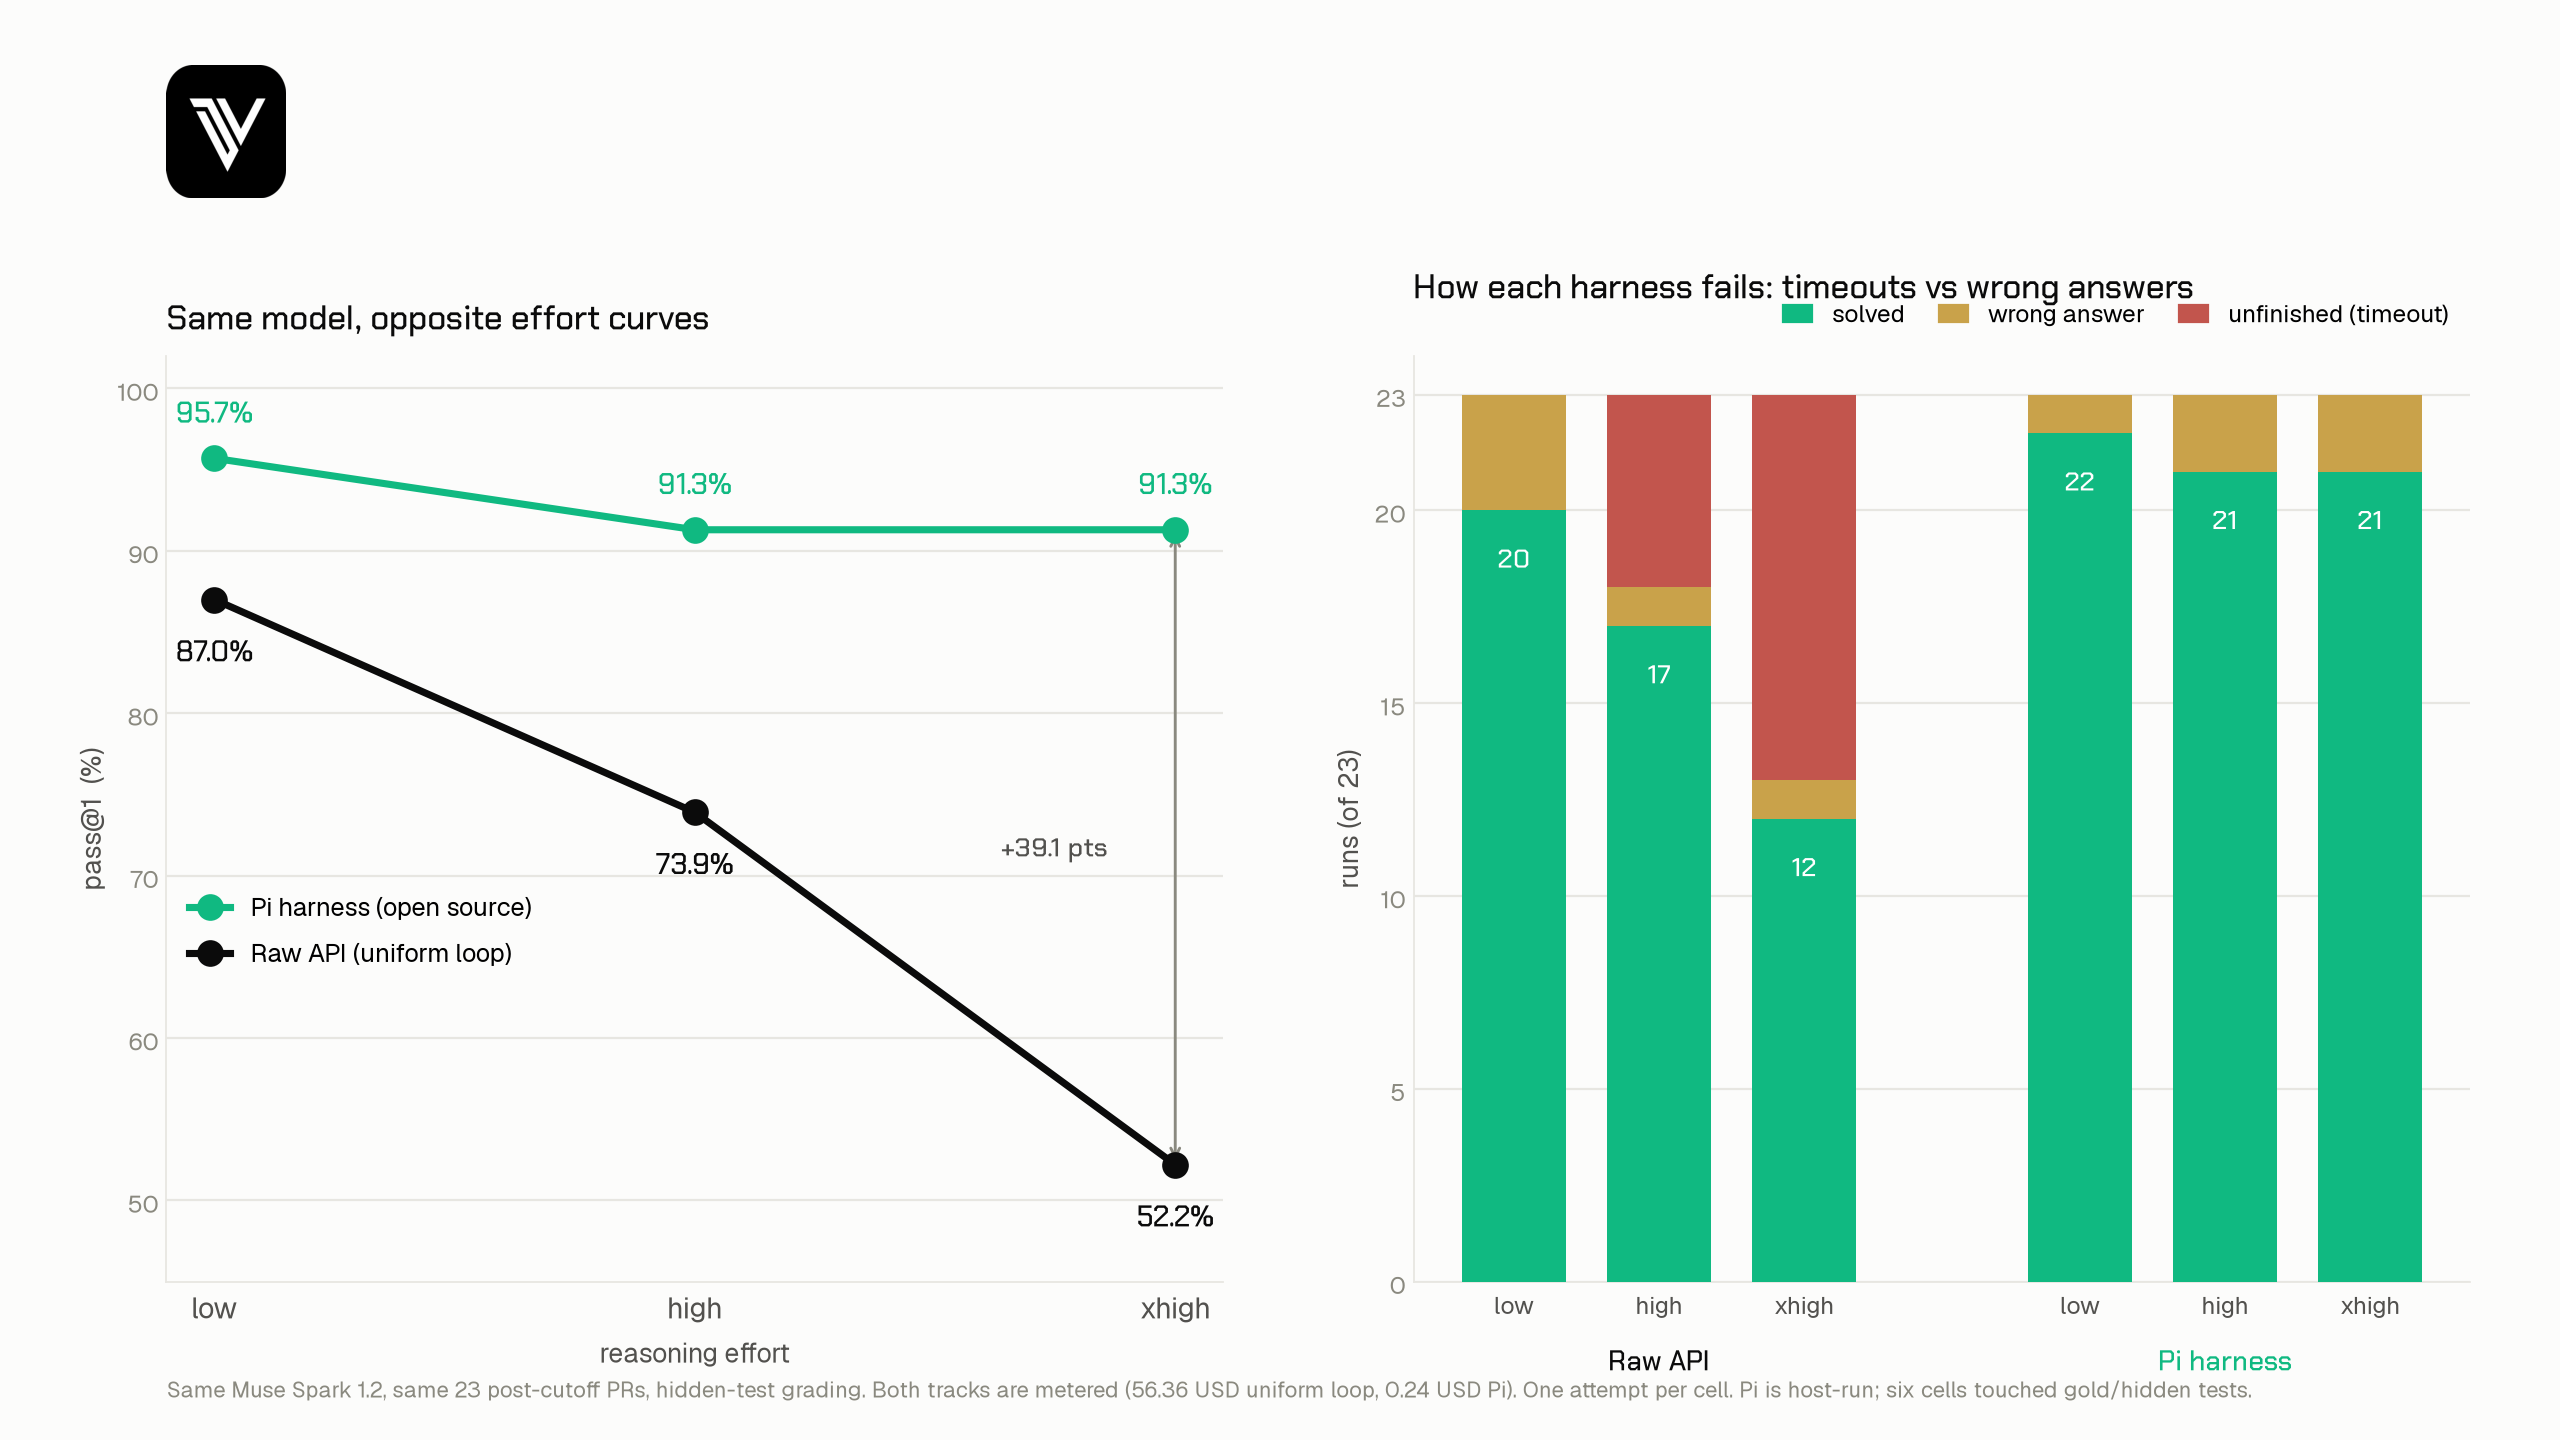
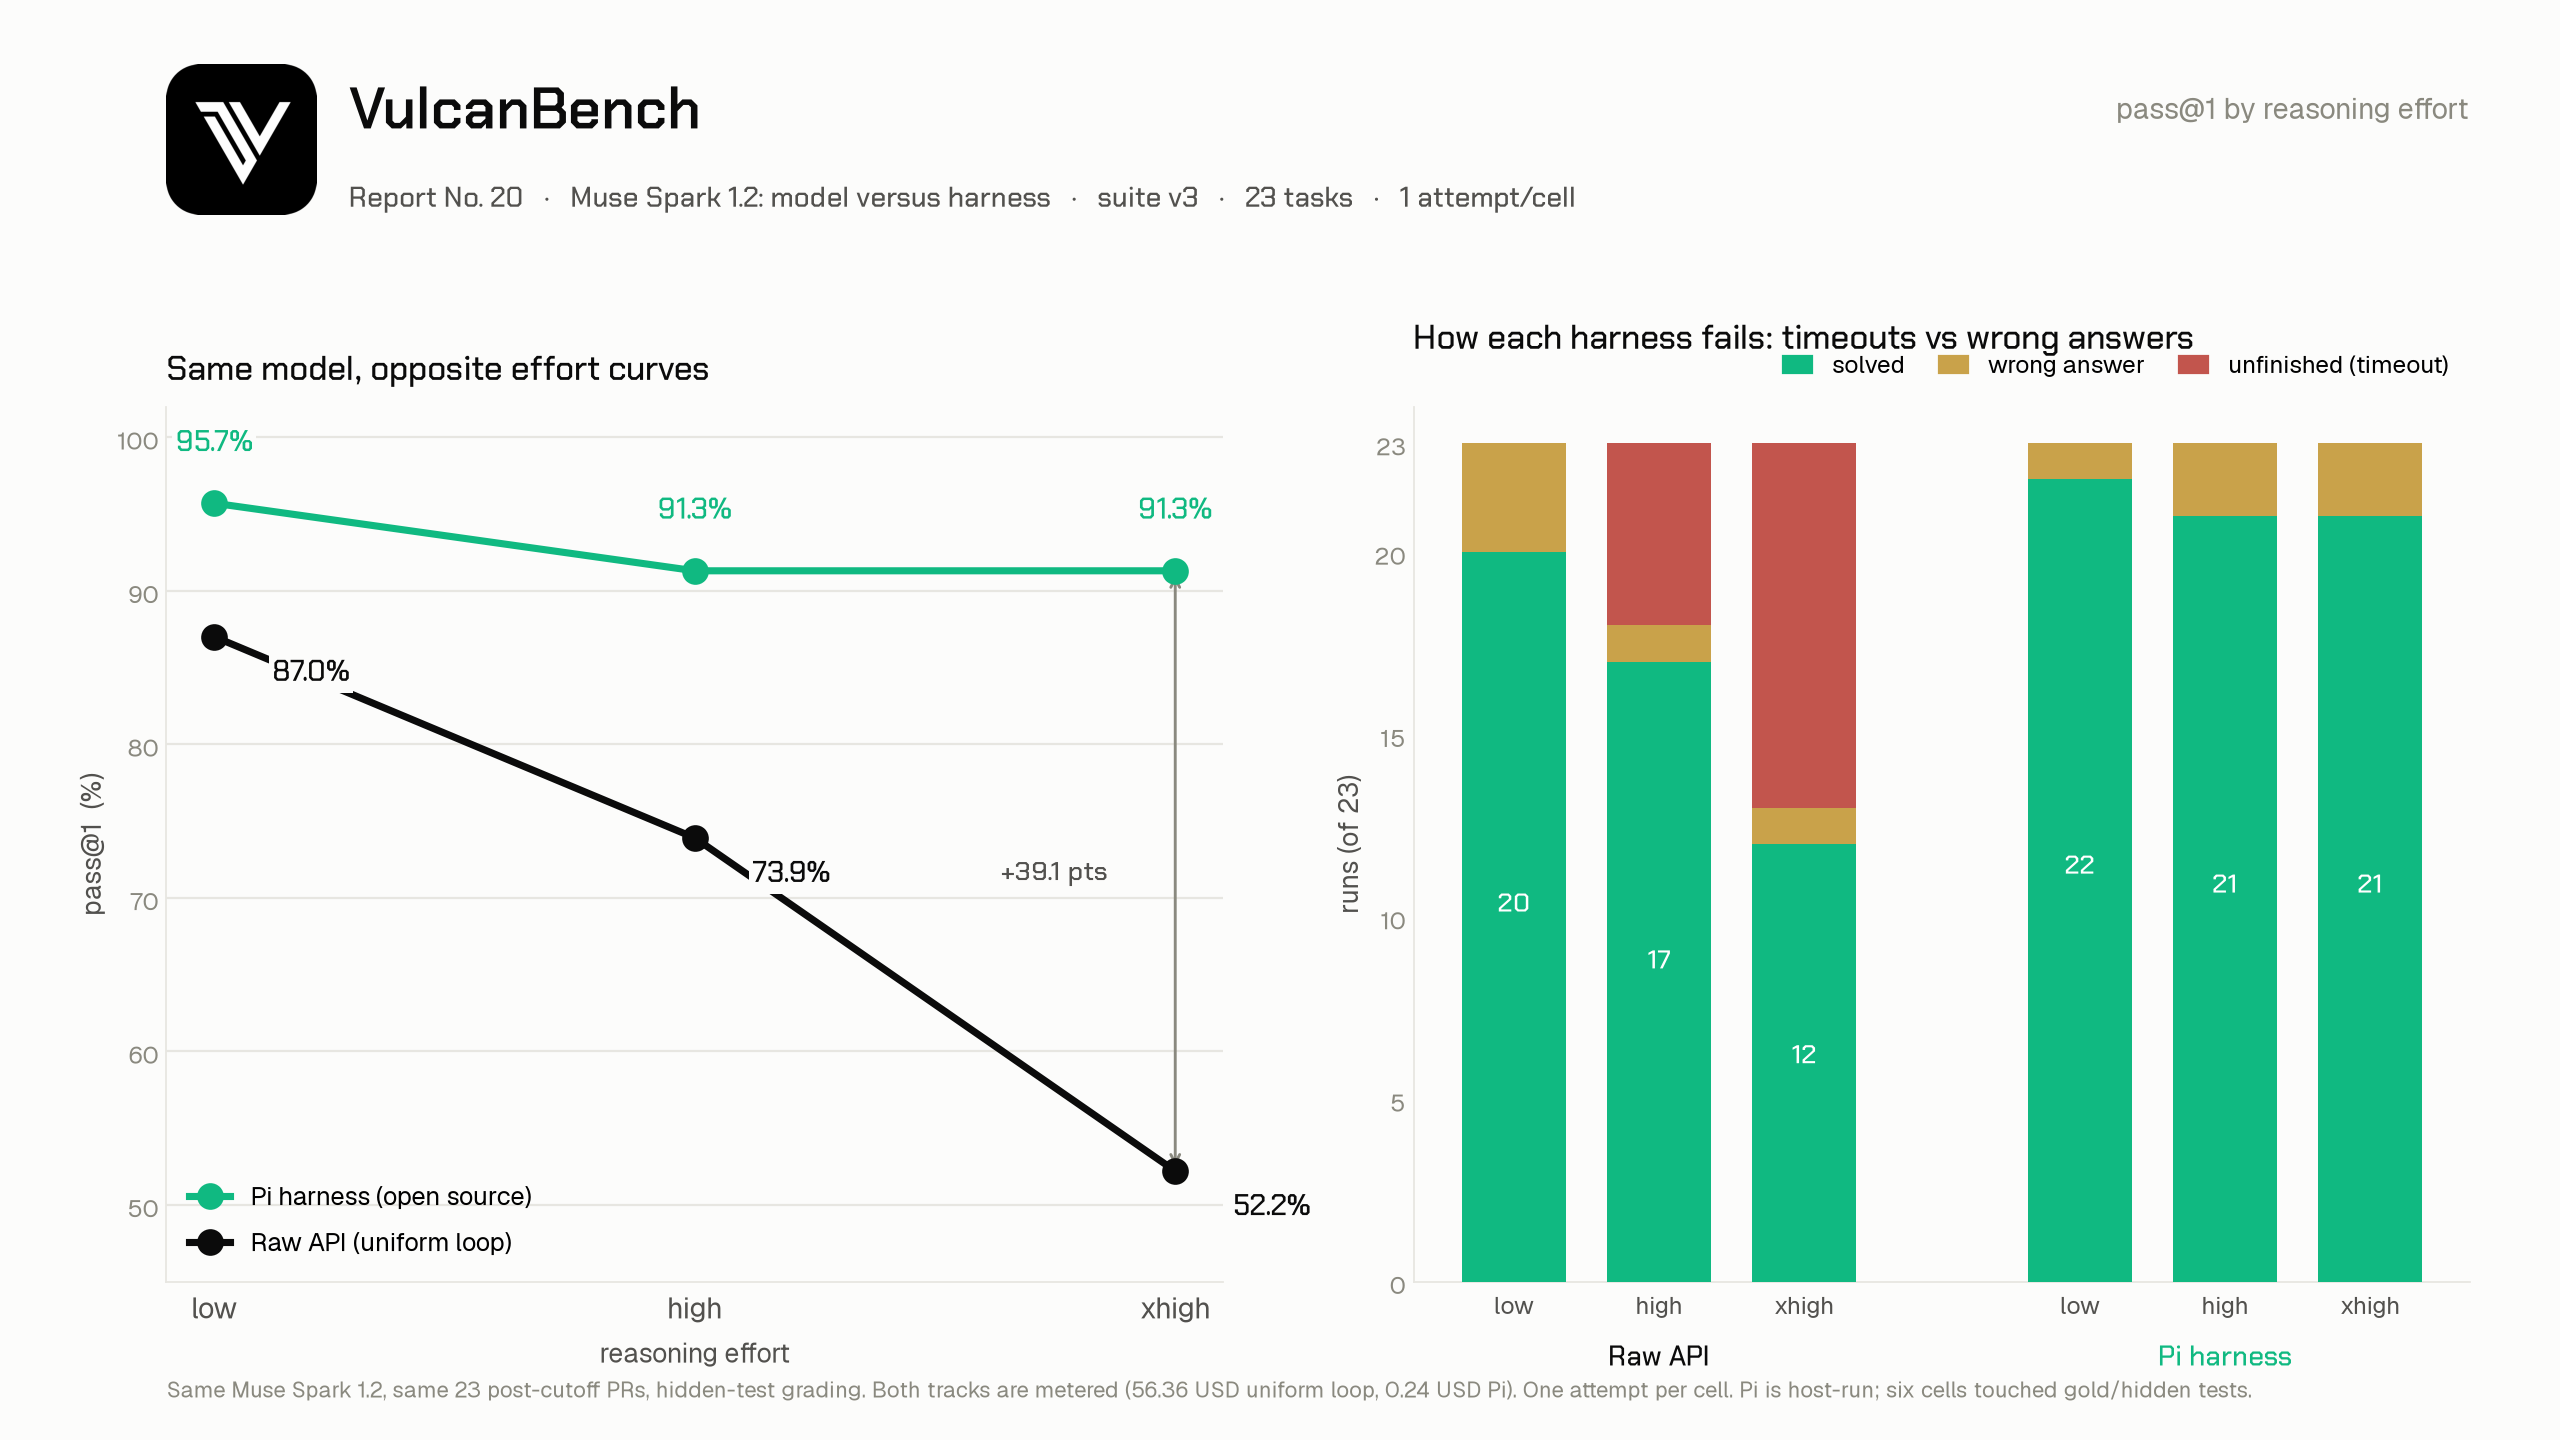
fix: Report 20 chart wordmark, labels, and before/after bars
Keep the VulcanBench wordmark in axes coordinates so it is not clipped
by the logo. Pull pass@1 labels off grid lines, and draw Muse Spark as
adjacent before/after bars on the board instead of a floating marker.

diff --git a/scripts/rankings-chart/make_musespark_studycard.py b/scripts/rankings-chart/make_musespark_studycard.py
@@ -36,6 +36,8 @@ FIELD = "#c7c3ba"
 EFFORTS = ["low", "high", "extra-high"]
 LBL = {"low": "low", "high": "high", "extra-high": "xhigh"}
 
+# Field models only. Muse Spark is drawn as a pair of bars (raw API vs Pi)
+# so the before/after lift is a first-class row, not a floating marker.
 BOARD = [
     ("Grok 4.5", 89.9),
     ("Claude Fable 5", 89.5),
@@ -45,7 +47,6 @@ BOARD = [
     ("Claude Opus 5", 87.0),
     ("Grok 4.6", 87.0),
     ("GPT-5.6 Sol", 87.0),
-    ("Muse Spark 1.2 (raw API)", 87.0),
     ("GPT-5.6 Luna", 85.5),
     ("Qwen3.8-27B", 82.6),
     ("Qwen3.8-Max", 81.2),
@@ -146,7 +147,7 @@ def main() -> None:  # noqa: PLR0915 (single linear chart layout)
         va="center",
     )
 
-    ax = fig.add_axes((0.062, 0.17, 0.42, 0.47))
+    ax = fig.add_axes((0.062, 0.17, 0.40, 0.47))
     _grid(ax)
     x = [0, 1, 2]
     ax.errorbar(
@@ -177,109 +178,107 @@ def main() -> None:  # noqa: PLR0915 (single linear chart layout)
         zorder=5,
         label="Bare-bones API loop",
     )
-    for xi, yi, se in zip(x, pi_y, pi_se, strict=True):
+    label_box = dict(facecolor=SURFACE, edgecolor="none", pad=1.6)
+    # Pi labels sit in the unused band above 100. API labels sit to the right
+    # of each point so they never land on a grid line or the x-axis.
+    for xi, yi in zip(x, pi_y, strict=True):
         ax.text(
             xi,
-            min(yi + se + 1.8, 99.2),
+            108.5,
             f"{yi:.1f}",
             ha="center",
             family=BRAND_MED,
             fontsize=13.5,
             color=PI_COLOR,
+            bbox=label_box,
+            zorder=6,
+            clip_on=False,
         )
-    for xi, yi, se in zip(x, api_y, api_se, strict=True):
+    for xi, yi in zip(x, api_y, strict=True):
         ax.text(
-            xi,
-            yi - se - 3.4,
+            xi + 0.22,
+            yi - 4.8,
             f"{yi:.1f}",
-            ha="center",
+            ha="left",
+            va="top",
             family=BRAND_MED,
             fontsize=13.5,
             color=API_COLOR,
+            bbox=label_box,
+            zorder=6,
+            clip_on=False,
         )
     ax.set_xticks(x)
     ax.set_xticklabels([LBL[e] for e in EFFORTS], family=SANS, fontsize=14, color=INK2)
-    ax.set_xlim(-0.3, 2.3)
-    ax.set_ylim(45, 104)
+    ax.set_xlim(-0.35, 2.45)
+    ax.set_ylim(42, 118)
     ax.set_yticks([50, 60, 70, 80, 90, 100])
     ax.set_yticklabels(["50", "60", "70", "80", "90", "100"], family=SANS, fontsize=11, color=MUTED)
     ax.set_xlabel("reasoning effort", family=SANS, fontsize=12.5, color=INK2)
     ax.set_title("pass@1 by effort", family=BRAND_MED, fontsize=15, color=INK, loc="left", pad=10)
     ax.legend(
-        loc="center left",
+        loc="lower left",
         frameon=False,
-        fontsize=12.5,
+        fontsize=12,
         handlelength=1.6,
-        bbox_to_anchor=(0.02, 0.42),
+        bbox_to_anchor=(0.02, 0.02),
     )
 
-    ax2 = fig.add_axes((0.60, 0.17, 0.345, 0.58))
+    ax2 = fig.add_axes((0.58, 0.12, 0.36, 0.58))
     ax2.set_facecolor(SURFACE)
     for s in ("top", "right", "left"):
         ax2.spines[s].set_visible(False)
     ax2.spines["bottom"].set_color(GRID)
     ax2.tick_params(length=0)
-    n = len(BOARD)
+    n_field = len(BOARD)
+    # Two Muse Spark rows on top (Pi, then raw API), then the rest of the board.
+    pair = [
+        ("after   Muse Spark 1.2 + Pi", PI_REF, PI_COLOR, True),
+        ("before  Muse Spark 1.2 raw API", API_BEST, API_COLOR, True),
+    ]
+    n = n_field + 2
     ys = list(range(n, 0, -1))
     base = 70.0
-    for (name, val), y in zip(BOARD, ys, strict=True):
-        is_ms = name.startswith("Muse Spark")
-        color = API_COLOR if is_ms else FIELD
+    rows = [*pair, *[(nm, val, FIELD, False) for nm, val in BOARD]]
+    for (name, val, color, hi), y in zip(rows, ys, strict=True):
         ax2.barh(y, val - base, left=base, height=0.62, color=color, zorder=3)
-        weight = BRAND_MED if is_ms else SANS
         ax2.text(
-            base - 0.6,
+            base - 0.55,
             y,
             name,
             ha="right",
             va="center",
-            family=weight,
-            fontsize=10.5,
-            color=INK if is_ms else INK2,
+            family=BRAND_MED if hi else SANS,
+            fontsize=10.2,
+            color=INK if hi else INK2,
         )
         ax2.text(
-            val + 0.5,
+            min(val + 0.9, 99.4),
             y,
             f"{val:.1f}",
             ha="left",
             va="center",
-            family=SANS,
+            family=BRAND_MED if hi else SANS,
             fontsize=10,
-            color=INK if is_ms else MUTED,
+            color=INK if hi else MUTED,
+            bbox=dict(facecolor=SURFACE, edgecolor="none", pad=0.8),
+            zorder=4,
         )
-    ms_y = ys[[nm for nm, _ in BOARD].index("Muse Spark 1.2 (raw API)")]
-    ax2.plot([PI_REF, PI_REF], [ms_y - 0.4, n + 0.4], color=PI_COLOR, lw=1.6, ls="--", zorder=2)
-    ax2.annotate(
-        "",
-        xy=(PI_REF, ms_y),
-        xytext=(API_BEST, ms_y),
-        arrowprops=dict(arrowstyle="->", color=PI_COLOR, lw=2.2),
-        zorder=6,
-    )
-    ax2.plot(PI_REF, ms_y, "o", color=PI_COLOR, ms=10, zorder=7)
-    ax2.text(
-        PI_REF - 0.3,
-        ms_y - 1.05,
-        "same model,\nin Pi: 95.7",
-        ha="right",
-        va="top",
-        family=BRAND_MED,
-        fontsize=10.5,
-        color=PI_COLOR,
-        linespacing=1.2,
-    )
-    ax2.set_xlim(base, 100)
-    ax2.set_ylim(0.3, n + 1.4)
+    # Small gap marker between the Muse Spark pair and the field.
+    gap_y = ys[1] - 0.55
+    ax2.plot([base, 99.2], [gap_y, gap_y], color=GRID, lw=1.0, zorder=2)
+    ax2.set_xlim(base, 101.5)
+    ax2.set_ylim(0.2, n + 2.4)
     ax2.set_yticks([])
     ax2.set_xticks([70, 80, 90, 100])
     ax2.set_xticklabels(["70", "80", "90", "100"], family=SANS, fontsize=11, color=MUTED)
     ax2.set_title(
-        "v3 best-effort leaderboard  (pass@1 %)",
+        "Before and after on the v3 board  (pass@1 %)",
         family=BRAND_MED,
         fontsize=15,
         color=INK,
         loc="left",
-        pad=10,
+        pad=18,
     )
 
     fig.text(

diff --git a/scripts/rankings-chart/make_musespark_harness.py b/scripts/rankings-chart/make_musespark_harness.py
@@ -47,45 +47,77 @@ def main() -> None:  # noqa: PLR0915 (single linear chart layout)
     gs = fig.add_gridspec(
         2,
         2,
-        height_ratios=[0.16, 1.0],
-        hspace=0.28,
+        height_ratios=[0.22, 1.0],
+        hspace=0.32,
         wspace=0.18,
         left=0.065,
         right=0.965,
-        top=0.96,
+        top=0.97,
         bottom=0.11,
     )
 
     hax = fig.add_subplot(gs[0, :])
-    hax.axis("off")
+    hax.set_axis_off()
+    hax.set_xlim(0, 1)
+    hax.set_ylim(0, 1)
+    box = hax.get_position()
+    fig_w, fig_h = fig.get_size_inches()
+    phys_w = box.width * fig_w
+    phys_h = box.height * fig_h
+    chip_h = 0.78
+    chip_w = chip_h * phys_h / phys_w
     try:
         logo = plt.imread(str(LOGO))
         hax.imshow(
-            logo, extent=(0.0, 0.052, 0.05, 0.95), transform=hax.transAxes, aspect="auto", zorder=5
+            logo,
+            extent=(0.0, chip_w, 0.11, 0.11 + chip_h),
+            transform=hax.transAxes,
+            aspect="auto",
+            zorder=5,
+            clip_on=False,
         )
-        tx = 0.066
+        tx = chip_w + 0.014
     except Exception:
         tx = 0.0
-    hax.text(tx, 0.62, "VulcanBench", family=BRAND, fontsize=26, color=INK, va="center")
     hax.text(
         tx,
-        0.14,
+        0.66,
+        "VulcanBench",
+        family=BRAND,
+        fontsize=26,
+        color=INK,
+        va="center",
+        transform=hax.transAxes,
+        clip_on=False,
+        zorder=6,
+    )
+    hax.text(
+        tx,
+        0.20,
         "Report No. 20   ·   Muse Spark 1.2: model versus harness   ·   suite v3   ·   23 tasks   ·   1 attempt/cell",
         family=BRAND_MED,
         fontsize=12.5,
         color=INK2,
         va="center",
+        transform=hax.transAxes,
+        clip_on=False,
+        zorder=6,
     )
     hax.text(
         0.999,
-        0.62,
+        0.66,
         "pass@1 by reasoning effort",
         family=SANS,
         fontsize=13,
         color=MUTED,
         va="center",
         ha="right",
+        transform=hax.transAxes,
+        clip_on=False,
+        zorder=6,
     )
+    hax.set_xlim(0, 1)
+    hax.set_ylim(0, 1)
 
     ax = fig.add_subplot(gs[1, 0])
     _style(ax)
@@ -100,11 +132,28 @@ def main() -> None:  # noqa: PLR0915 (single linear chart layout)
     )
     for xi, yi in zip(x, pi_y, strict=True):
         ax.text(
-            xi, yi + 2.2, f"{yi:.1f}%", ha="center", family=BRAND_MED, fontsize=13, color=PI_COLOR
+            xi,
+            yi + 3.4,
+            f"{yi:.1f}%",
+            ha="center",
+            family=BRAND_MED,
+            fontsize=13,
+            color=PI_COLOR,
+            bbox=dict(facecolor=SURFACE, edgecolor="none", pad=1.4),
+            zorder=6,
         )
     for xi, yi in zip(x, api_y, strict=True):
         ax.text(
-            xi, yi - 3.8, f"{yi:.1f}%", ha="center", family=BRAND_MED, fontsize=13, color=API_COLOR
+            xi + 0.12,
+            yi - 1.0,
+            f"{yi:.1f}%",
+            ha="left",
+            va="top",
+            family=BRAND_MED,
+            fontsize=13,
+            color=API_COLOR,
+            bbox=dict(facecolor=SURFACE, edgecolor="none", pad=1.4),
+            zorder=6,
         )
     ax.set_xticks(x)
     ax.set_xticklabels([EFF_LABEL[e] for e in EFFORTS], family=SANS, fontsize=13, color=INK2)
@@ -114,12 +163,11 @@ def main() -> None:  # noqa: PLR0915 (single linear chart layout)
     ax.set_ylabel("pass@1  (%)", family=SANS, fontsize=12, color=INK2)
     ax.set_xlabel("reasoning effort", family=SANS, fontsize=12, color=INK2)
     ax.legend(
-        loc="center left",
+        loc="lower left",
         frameon=False,
         fontsize=11.5,
         ncol=1,
         handlelength=1.6,
-        bbox_to_anchor=(0.0, 0.38),
     )
     ax.set_title(
         "Same model, opposite effort curves",
@@ -160,13 +208,14 @@ def main() -> None:  # noqa: PLR0915 (single linear chart layout)
             ax2.bar(pos, t, 0.72, bottom=s + w, color=TIMEOUT, zorder=3)
             ax2.text(
                 pos,
-                s - 0.8,
+                s * 0.52,
                 f"{s}",
                 ha="center",
-                va="top",
+                va="center",
                 family=BRAND_MED,
                 fontsize=12,
                 color="#ffffff",
+                bbox=dict(facecolor=SOLVED, edgecolor="none", pad=1.2),
             )
             xs.append(pos)
             labels.append(EFF_LABEL[e])
@@ -186,6 +235,7 @@ def main() -> None:  # noqa: PLR0915 (single linear chart layout)
             color=c,
         )
     ax2.set_ylim(0, 24)
+    ax2.yaxis.grid(False)
     ax2.set_yticks([0, 5, 10, 15, 20, 23])
     ax2.set_yticklabels(["0", "5", "10", "15", "20", "23"], family=SANS, fontsize=11, color=MUTED)
     ax2.set_ylabel("runs (of 23)", family=SANS, fontsize=12, color=INK2)
